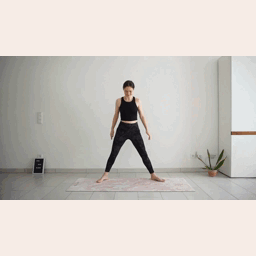
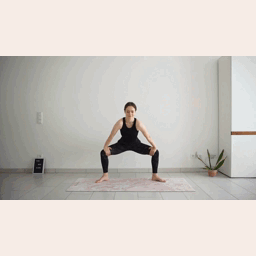
Fix hold final poses

Changed region(s): [[0.375, 0.3125, 0.6562, 0.7188]]

diff --git a/Flux/MainActivity.cs b/Flux/MainActivity.cs
@@ -26,6 +26,7 @@ public class MainActivity : Activity
     private TextView _regionName = null!;
     private TextView _exerciseName = null!;
     private VideoView _exerciseVideo = null!;
+    private ImageView _holdFrameImage = null!;
     private Button _startButton = null!;
     private View _countdownPanel = null!;
     private TextView _countdownText = null!;
@@ -41,6 +42,7 @@ public class MainActivity : Activity
     private Android.Media.ToneGenerator? _toneGenerator;
     private Android.Media.MediaPlayer? _activeMediaPlayer;
     private VideoPreparedListener? _videoPreparedListener;
+    private Android.Graphics.Bitmap? _holdFrameBitmap;
     private bool _countdownActive;
     private bool _loopExerciseVideo = true;
     private bool _freezeHoldAtEnd;
@@ -96,6 +98,7 @@ public class MainActivity : Activity
         _toneGenerator?.Dispose();
         _toneGenerator = null;
         _exerciseVideo?.StopPlayback();
+        ClearHoldFrame();
         _activeMediaPlayer = null;
         _videoPreparedListener = null;
         _exerciseDatabase?.Dispose();
@@ -109,6 +112,7 @@ public class MainActivity : Activity
         _regionName = FindRequiredView<TextView>(Resource.Id.region_name);
         _exerciseName = FindRequiredView<TextView>(Resource.Id.exercise_name);
         _exerciseVideo = FindRequiredView<VideoView>(Resource.Id.exercise_video);
+        _holdFrameImage = FindRequiredView<ImageView>(Resource.Id.hold_frame_image);
         _startButton = FindRequiredView<Button>(Resource.Id.start_button);
         _countdownPanel = FindRequiredView<View>(Resource.Id.countdown_panel);
         _countdownText = FindRequiredView<TextView>(Resource.Id.countdown_text);
@@ -156,6 +160,7 @@ public class MainActivity : Activity
         _loopExerciseVideo = true;
         _freezeHoldAtEnd = false;
         _activeMediaPlayer = null;
+        ClearHoldFrame();
         _exerciseVideo.StopPlayback();
         _exerciseVideo.SetVideoPath(CacheVideoAsset(exercise.Video));
     }
@@ -175,6 +180,7 @@ public class MainActivity : Activity
 
     private void PlayHoldOnce()
     {
+        ClearHoldFrame();
         _loopExerciseVideo = false;
         _freezeHoldAtEnd = true;
         if (_activeMediaPlayer is not null)
@@ -188,17 +194,45 @@ public class MainActivity : Activity
 
     private void FreezeHoldOnFinalFrame()
     {
-        if (_currentExercise?.Mode != ExerciseMode.Hold)
+        Exercise? exercise = _currentExercise;
+        if (exercise?.Mode != ExerciseMode.Hold)
         {
             return;
         }
 
-        int duration = _activeMediaPlayer?.Duration ?? _exerciseVideo.Duration;
-        if (duration > 0)
-        {
-            _exerciseVideo.SeekTo(Math.Max(0, duration - 80));
-        }
         _exerciseVideo.Pause();
+        ShowHoldFrame(exercise.Id);
+    }
+
+    private void ShowHoldFrame(int exerciseId)
+    {
+        if (_holdFrameImage.Visibility == ViewStates.Visible)
+        {
+            return;
+        }
+
+        string assetPath = $"exercise_hold_frames/exercise_{exerciseId:D4}.png";
+        using Stream stream = Assets!.Open(assetPath);
+        Android.Graphics.Bitmap bitmap = Android.Graphics.BitmapFactory.DecodeStream(stream)
+            ?? throw new InvalidOperationException(
+                $"Unable to decode the reviewed hold frame for exercise {exerciseId}.");
+
+        _holdFrameBitmap = bitmap;
+        _holdFrameImage.SetImageBitmap(bitmap);
+        _holdFrameImage.Visibility = ViewStates.Visible;
+    }
+
+    private void ClearHoldFrame()
+    {
+        if (_holdFrameImage is null)
+        {
+            return;
+        }
+
+        _holdFrameImage.Visibility = ViewStates.Gone;
+        _holdFrameImage.SetImageDrawable(null);
+        _holdFrameBitmap?.Dispose();
+        _holdFrameBitmap = null;
     }
 
     private void ShowNextExercise()

diff --git a/Flux/Data/SqliteExerciseDatabase.cs b/Flux/Data/SqliteExerciseDatabase.cs
@@ -10,7 +10,7 @@ namespace Flux.Data;
 public sealed class SqliteExerciseDatabase : SQLiteOpenHelper, IExerciseDatabase
 {
     private const string DatabaseFileName = "flux_exercises.db";
-    private const int DatabaseVersion = 8;
+    private const int DatabaseVersion = 9;
     private const string TableName = "exercises";
     private const string CatalogAsset = "exercises.json";
     private const int MinimumExercisesPerRegion = 3;
@@ -141,6 +141,12 @@ public sealed class SqliteExerciseDatabase : SQLiteOpenHelper, IExerciseDatabase
             catalogRefreshRequired = true;
         }
 
+        if (oldVersion < 9)
+        {
+            // Refresh corrected hold targets while retaining every score.
+            catalogRefreshRequired = true;
+        }
+
         if (oldVersion < 3)
         {
             catalogRefreshRequired = true;
@@ -214,7 +220,7 @@ public sealed class SqliteExerciseDatabase : SQLiteOpenHelper, IExerciseDatabase
         {
             // Release the UNIQUE name values before applying renamed records.
             database.ExecSQL(
-                "UPDATE exercises SET name = '__flux_catalog_v8_' || id");
+                "UPDATE exercises SET name = '__flux_catalog_v9_' || id");
 
             foreach (Exercise exercise in catalog)
             {

diff --git a/README.md b/README.md
@@ -78,7 +78,8 @@ timer, record the result with **X**, **−**, or **✓**.
 
 Repetitions keep their MP4 looping throughout the timer. Holds are labeled
 **HOLD**: their MP4 loops only as a preview, then plays once into the reviewed
-target pose and remains frozen there for the rest of the countdown.
+target pose. Flux displays the reviewed target frame explicitly for the rest of
+the countdown, avoiding device-specific `VideoView` end-frame behavior.
 
 The current lineup and outcomes are saved locally with Android shared
 preferences. Scores are saved in SQLite. An **X** reduces that exercise's score
